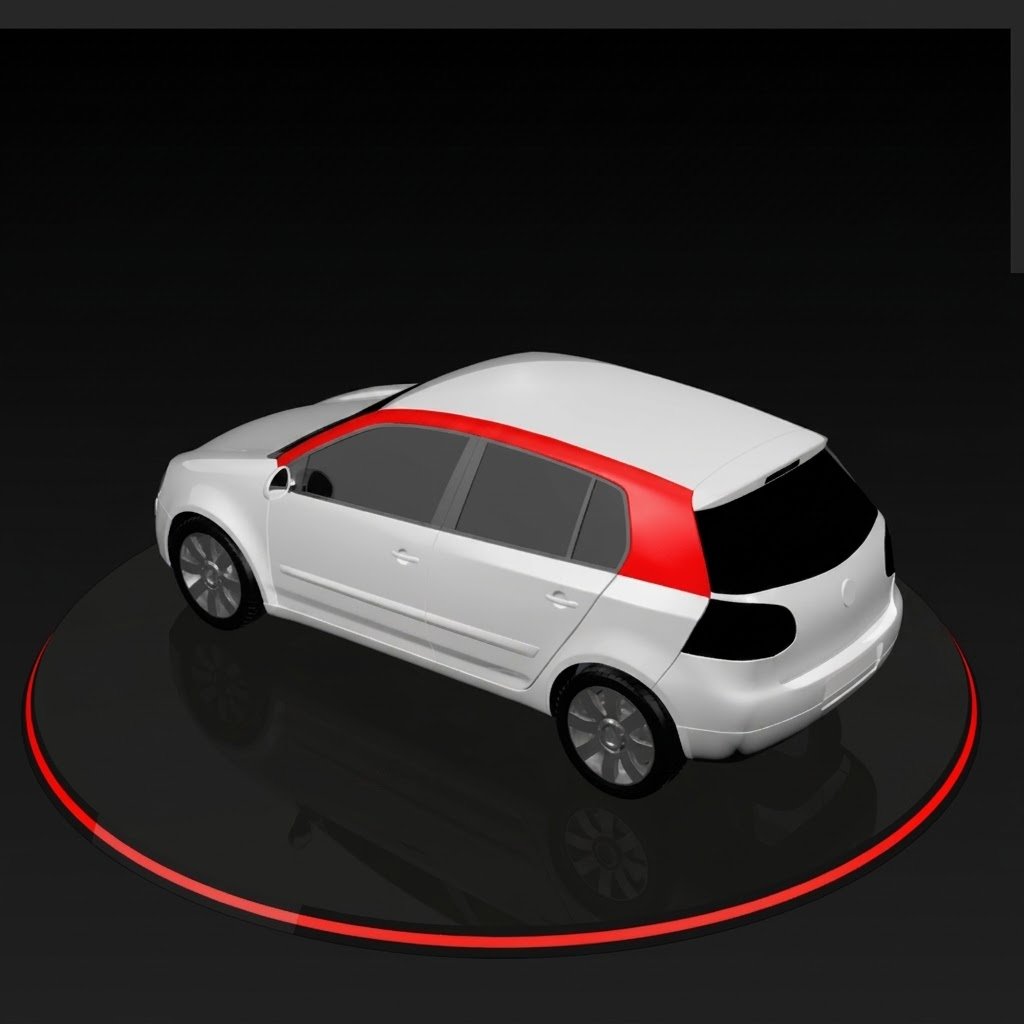
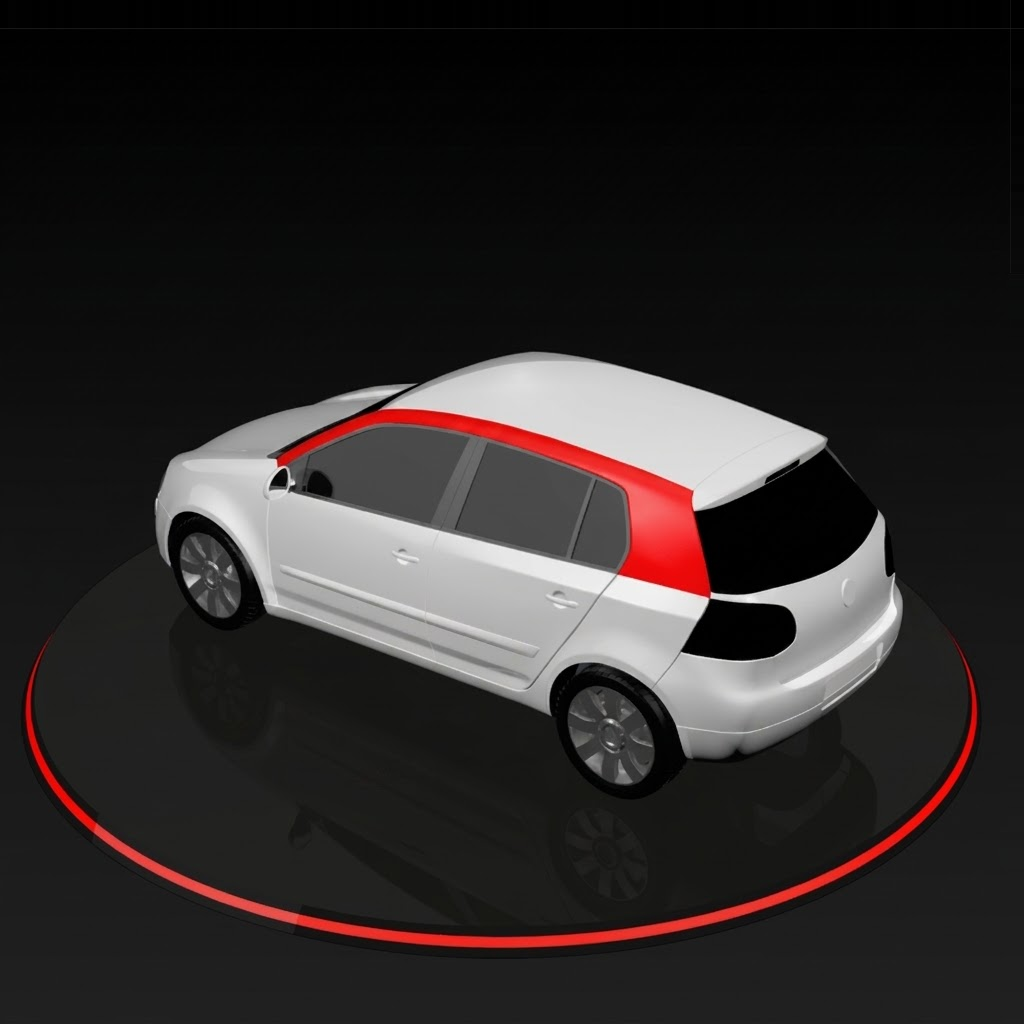
Drobné úpravy

Changed region(s): [[0.0, 0.0, 1.0, 0.2812]]

diff --git a/pdr-kalkulacka.html b/pdr-kalkulacka.html
@@ -323,12 +323,7 @@
       }
 
       .result-kicker {
-        margin: 0 0 4px;
-        color: #6b8510;
-        font-size: 0.72rem;
-        font-weight: 700;
-        letter-spacing: 0.08em;
-        text-transform: uppercase;
+        display: none;
       }
 
       .result-description {
@@ -2271,15 +2266,16 @@
 
         .footer-content {
           display: grid;
-          grid-template-columns: minmax(140px, 1fr) minmax(0, 3fr);
+          grid-template-columns: minmax(120px, 0.7fr) minmax(0, 4fr);
           align-items: start;
-          gap: 32px;
+          gap: 24px;
           width: 100%;
           max-width: none;
         }
 
         .footer-left {
           gap: 4px;
+          font-size: 10px;
         }
 
         .footer-right {
@@ -2288,7 +2284,8 @@
 
         .footer-right p {
           white-space: nowrap;
-          font-size: 9px;
+          font-size: 10px;
+          line-height: 1.4;
         }
       }
     </style>
@@ -2361,8 +2358,7 @@
         <section class="card result-card">
           <div class="result-heading">
             <div>
-              <p class="result-kicker">Výpočet opravy</p>
-              <h2>Výsledek</h2>
+              <h2>Přehled opravy</h2>
               <p class="result-description">Přehled cen jednotlivých dílů a celkové částky.</p>
             </div>
           </div>
@@ -2376,10 +2372,8 @@
                     <th>Díl</th>
                     <th>Počet</th>
                     <th>Průměr</th>
-                    <th>Pásmo</th>
-                    <th>Ceníková skupina</th>
-                    <th>Úprava</th>
-                    <th class="num">Cena dílu</th>
+                    <th id="adjustment-header">Úprava</th>
+                    <th class="num">Oprava PDR bez DPH</th>
                   </tr>
                 </thead>
                 <tbody id="result-rows"></tbody>

diff --git a/pdr-kalkulacka.js b/pdr-kalkulacka.js
@@ -724,21 +724,26 @@ function renderResult() {
           <td>${detail.partName}</td>
           <td>${detail.count}</td>
           <td>${detail.diameter} mm</td>
-          <td>${detail.priceRange}</td>
-          <td>${PART_TYPE_LABELS[detail.partType]}</td>
-          <td>${detail.adjustmentLabel}</td>
+          <td class="adjustment-cell">${
+            detail.adjustmentLabel === "Bez úpravy" ? "" : detail.adjustmentLabel
+          }</td>
           <td class="num">${formatCzk(detail.partPrice)}</td>
         </tr>
       `,
     )
     .join("");
 
+  const hasAdjustments = prices.calculationDetails.some(
+    (detail) => detail.adjustmentLabel !== "Bez úpravy",
+  );
+  document.getElementById("adjustment-header").hidden = !hasAdjustments;
+  tbody.querySelectorAll(".adjustment-cell").forEach((cell) => {
+    cell.hidden = !hasAdjustments;
+  });
+
   document.getElementById("sum-before-material").textContent = formatCzk(prices.totalBeforeMaterial);
   document.getElementById("sum-material").textContent = formatCzk(prices.materialAddition);
-  document.getElementById("dismantling-label").textContent =
-    prices.repairWithoutVat <= 50000
-      ? "Demontážní práce (z ceny opravy bez DPH do 50 000 Kč)"
-      : "Demontážní práce (z ceny opravy bez DPH nad 50 000 Kč)";
+  document.getElementById("dismantling-label").textContent = "Demontáž/montáž";
   document.getElementById("sum-dismantling").textContent = formatCzk(prices.dismantling);
   document.getElementById("sum-without-vat").textContent = formatCzk(prices.priceWithoutVat);
   document.getElementById("sum-vat").textContent = formatCzk(prices.vatAmount);
